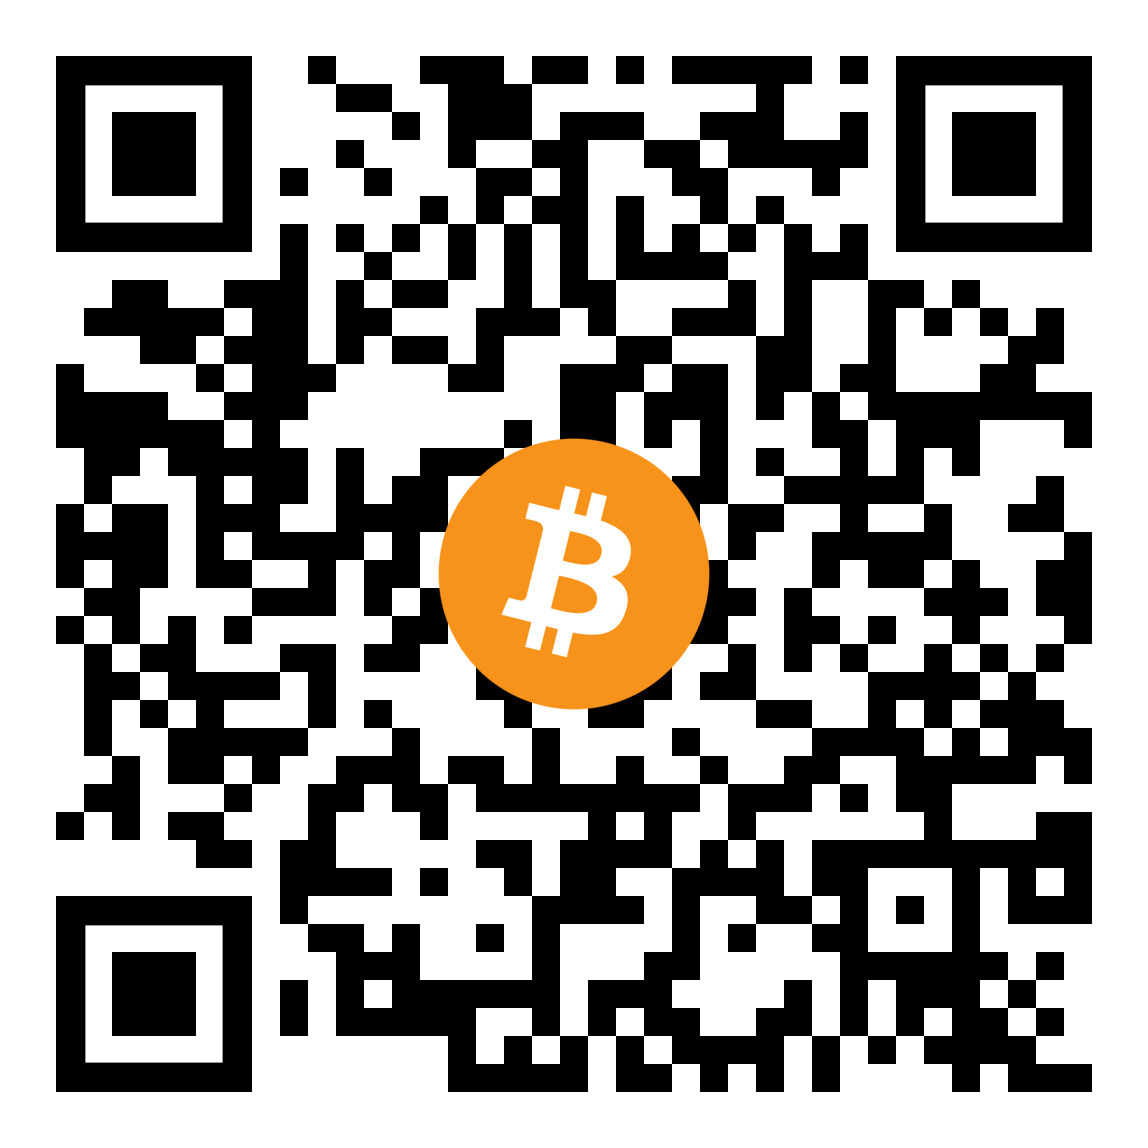
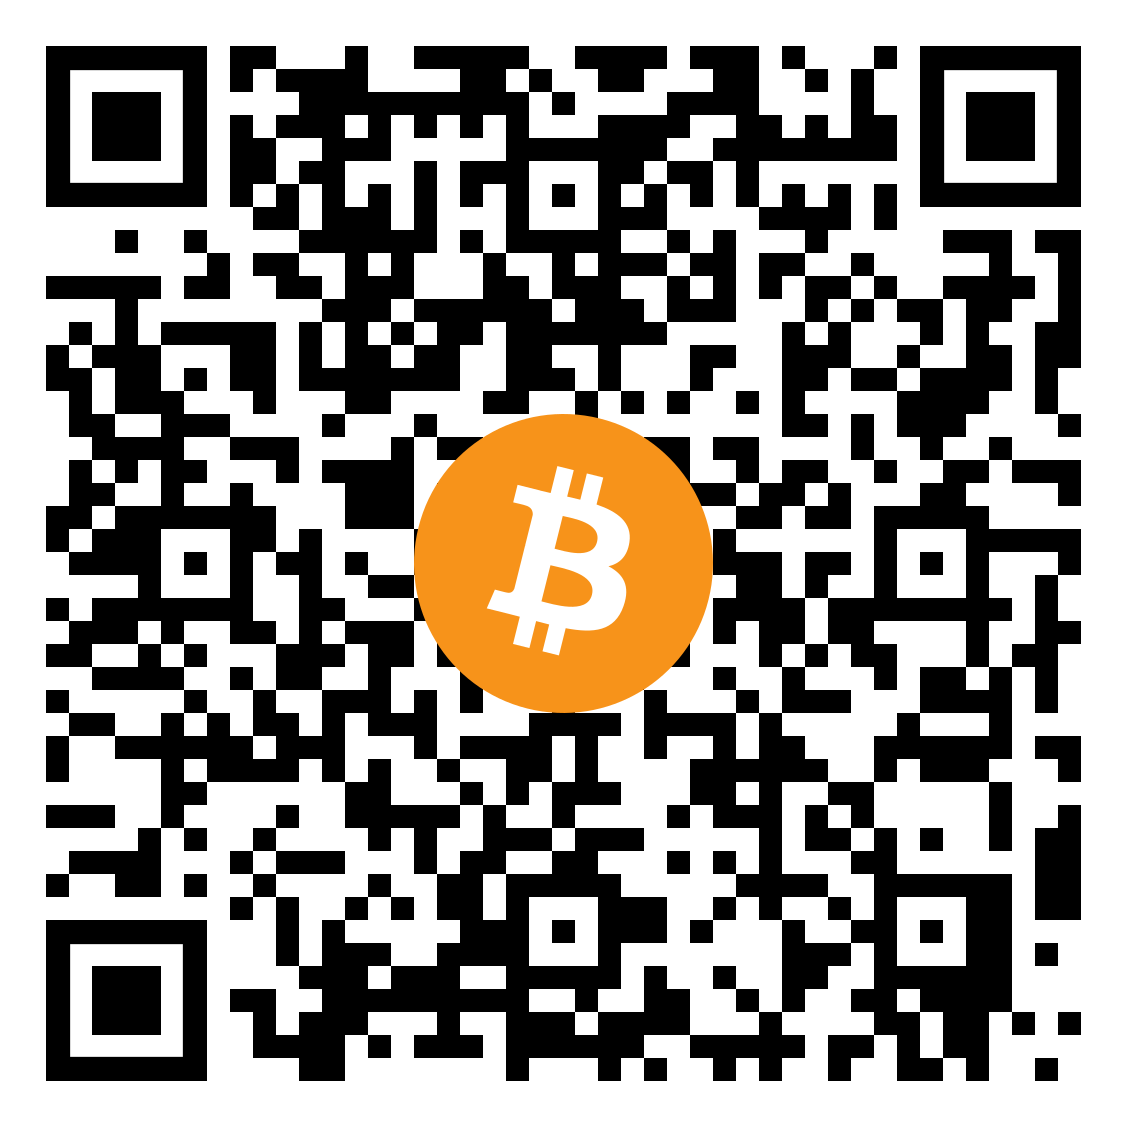
Added lightning btc

diff --git a/src/main.js b/src/main.js
@@ -62,10 +62,10 @@ document.addEventListener('DOMContentLoaded', () => {
   const qrData = [
[2 lines of base64/hex data omitted]
+    { img: 'assets/lbtc-qr.png', alt: 'lbtc-qr', code: 'snazzyrub305@walletofsatoshi.com' },
     { img: 'assets/dash-qr.png', alt: 'dash-qr', code: 'XvZyhMJ9Rh77XwnsuRgtNwqs5BbcVGxCRC' },
     { img: 'assets/bch-qr.png', alt: 'bch-qr', code: 'bitcoincash:qz7kmyt4q8wwtggnwcj64n6m56wj5rq06uqx9yqwz4' },
-    { img: 'assets/eth-qr.png', alt: 'eth-qr', code: '0x555f9B6b981A8Fe20a02b03fCAe3edEa7fd3F5ca' },
-    { img: 'assets/btc-qr.png', alt: 'btc-qr', code: 'bc1qz4w34ec9mv9v80qg942z3uktnxr7erntfyz00u'}
+    { img: 'assets/btc-qr.png', alt: 'btc-qr', code: 'bc1pgq3wmypl2tr0hl4p89csd4z4uh5dewhz62uu0e6ad5yfz68qgdmqql0twl'}
 
 
   ];
